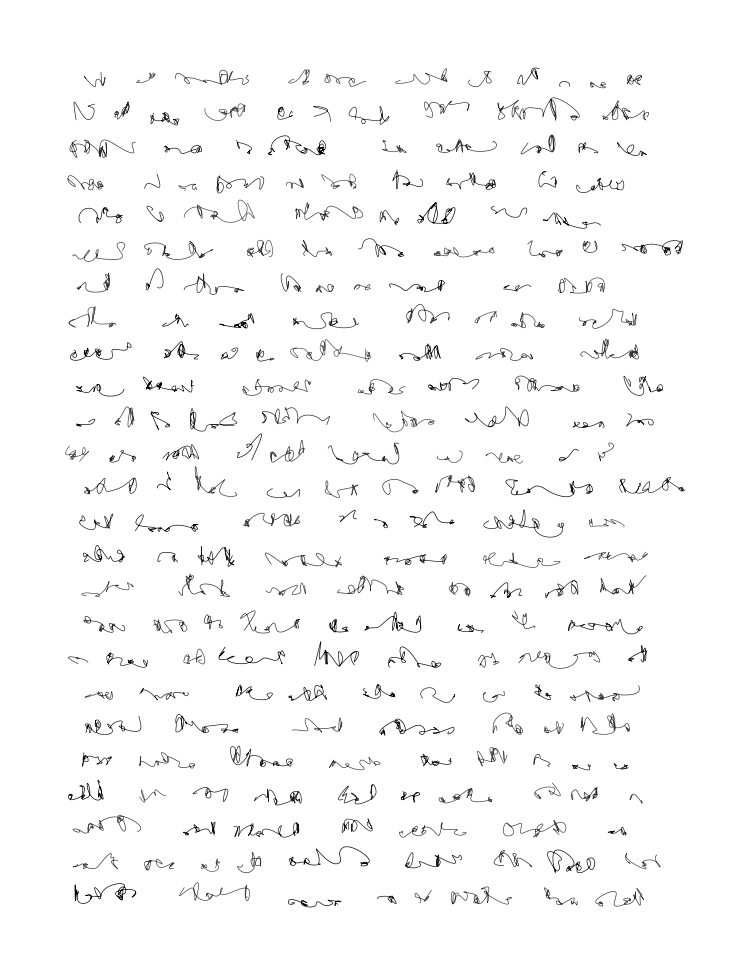
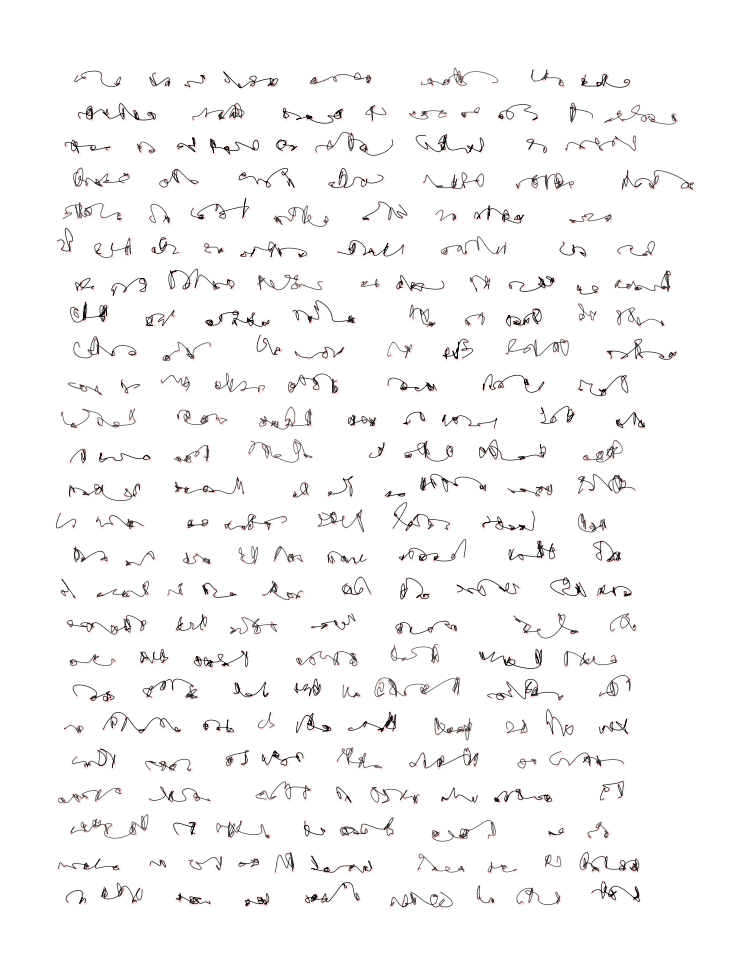
Demo.

diff --git a/inconv_words.py b/inconv_words.py
@@ -133,7 +133,7 @@ def plot_params(params, fig_params, filename):
 
 
 def main():
-    seed(1)
+    seed(2)
 
     fig_params   = { 'figsize'      : (5, 6.5)
                    , 'dpi'          : 150
@@ -163,7 +163,7 @@ def main():
                    , 'rand_word_len': lambda: randint(2, 7)
                    , 'char_params'  : char_params
                    , 'ax_params'    : ax_params
-                   , 'points'       : False
+                   , 'points'       : True
                    }
 
     if not check_params(params):
